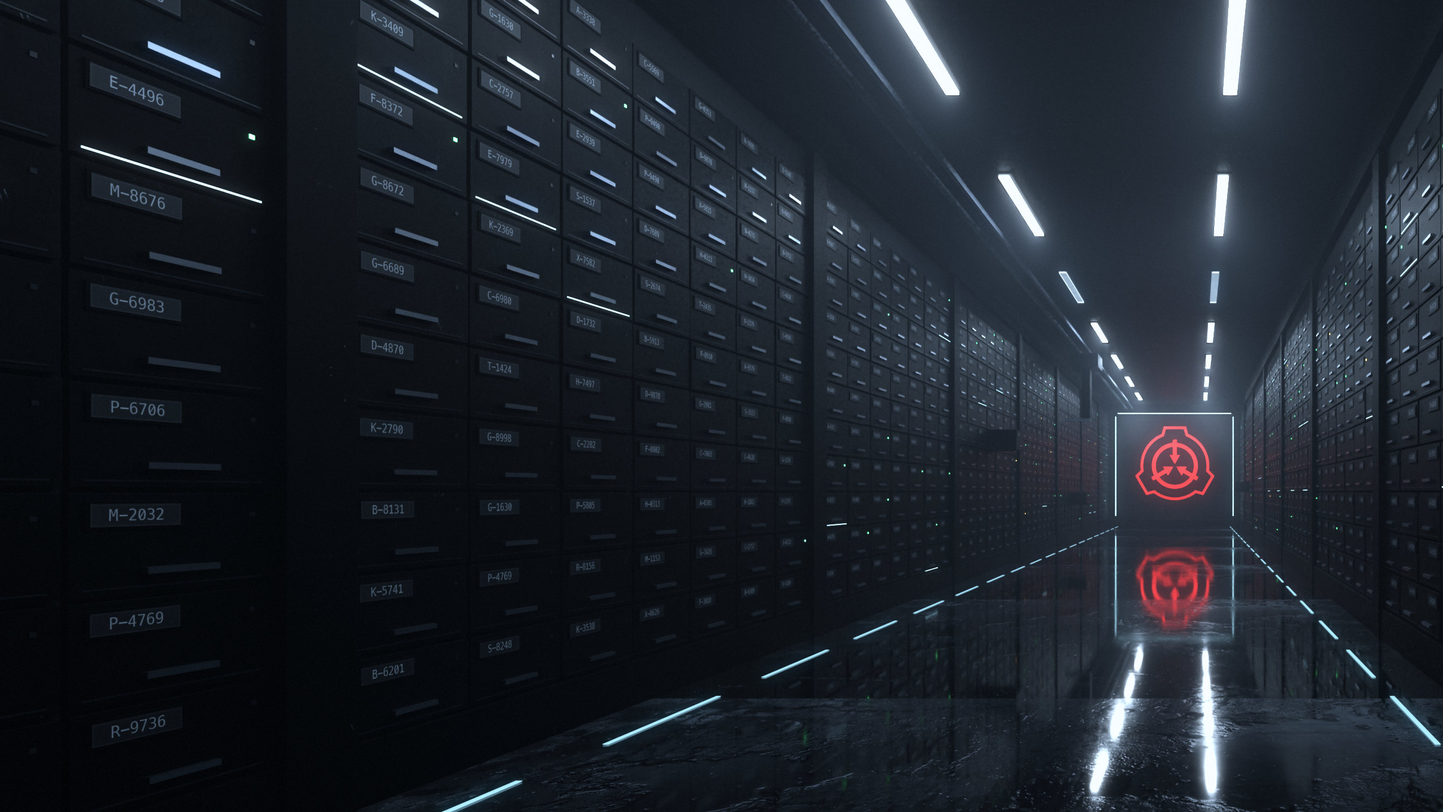
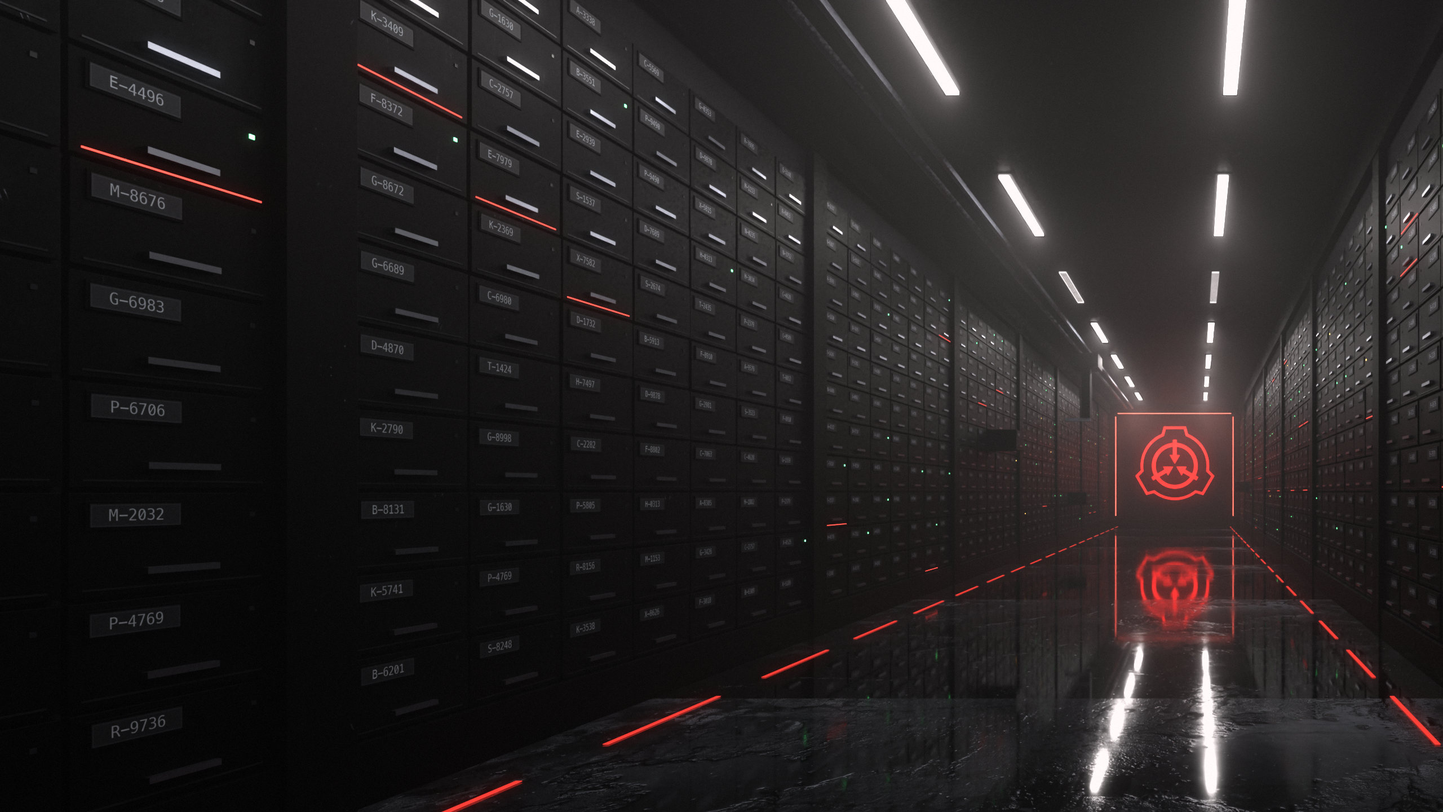
style: turn the entity profile terminal red
Replaces the ice blue accents and the vault's light strips with red, and
drops amber from the generating status so the screen stays in one colour.

diff --git a/styles/entityProfile.css b/styles/entityProfile.css
@@ -2,15 +2,15 @@
 @property --ep-ring { syntax: "<percentage>"; inherits: false; initial-value: 130%; }
 
 .stage-root .profile-view {
-  --ice: #9fd8ff;
-  --ice-soft: rgba(159, 216, 255, .16);
-  --ice-line: rgba(159, 216, 255, .34);
+  --ep-accent: #e04646;
+  --ep-accent-soft: rgba(224, 70, 70, .2);
+  --ep-accent-line: rgba(224, 70, 70, .46);
   --ep-side: clamp(340px, 31vw, 470px);
   --ep-plate-w: max(100vw, 177.78vh);
   --ep-console-x: calc(var(--ep-side) + clamp(14px, 2vw, 30px));
   /* 隔离门左边缘在底图 77.3% 处，底图贴右，终端停在门前 */
   --ep-door-x: calc(100vw - .227 * var(--ep-plate-w));
-  background: #030405;
+  background: #040303;
 }
 
 /* 底图按 cover 铺满，贴右下角，走廊尽头的标志留在终端右边 */
@@ -25,22 +25,21 @@
 .stage-root .profile-view.filing .ep-plate.lit { animation: none; opacity: 1; transition: opacity .75s cubic-bezier(.4, 0, .6, 1); }
 @keyframes ep-breathe { 0%, 100% { opacity: 0; } 50% { opacity: .13; } }
 @keyframes ep-wave { from { --ep-ring: 130%; } to { --ep-ring: -8%; } }
-.stage-root .ep-shade { position: absolute; inset: 0; pointer-events: none; background: linear-gradient(90deg, rgba(3,4,5,.72), rgba(3,4,5,.34) 46%, rgba(3,4,5,0) 72%), linear-gradient(0deg, rgba(3,4,5,.5), rgba(3,4,5,0) 26%); }
+.stage-root .ep-shade { position: absolute; inset: 0; pointer-events: none; background: linear-gradient(90deg, rgba(4,3,3,.72), rgba(4,3,3,.34) 46%, rgba(4,3,3,0) 72%), linear-gradient(0deg, rgba(4,3,3,.5), rgba(4,3,3,0) 26%); }
 
 /* ---------- 左：检索 ---------- */
-.stage-root .ep-side { position: absolute; z-index: 3; left: 0; top: 0; bottom: 0; width: var(--ep-side); display: flex; flex-direction: column; padding: clamp(14px, 2.6vh, 26px) 26px 18px clamp(20px, 2.6vw, 40px); background: rgba(5,7,9,.86); border-right: 1px solid var(--ice-soft); -webkit-backdrop-filter: blur(10px); backdrop-filter: blur(10px); opacity: 0; }
+.stage-root .ep-side { position: absolute; z-index: 3; left: 0; top: 0; bottom: 0; width: var(--ep-side); display: flex; flex-direction: column; padding: clamp(14px, 2.6vh, 26px) 26px 18px clamp(20px, 2.6vw, 40px); background: rgba(8,6,6,.86); border-right: 1px solid var(--ep-accent-soft); -webkit-backdrop-filter: blur(10px); backdrop-filter: blur(10px); opacity: 0; }
 .stage-root .profile-view.ready .ep-side { opacity: 1; transition: opacity .5s .1s; }
 .stage-root .ep-back { flex: none; align-self: flex-start; margin-left: -3px; }
 .stage-root .ep-title { flex: none; margin-top: clamp(10px, 2vh, 20px); }
 .stage-root .ep-title h1 { font-family: var(--report); font-weight: 400; font-size: clamp(24px, 2.3vw, 34px); line-height: 1.15; letter-spacing: .03em; margin-top: 8px; text-shadow: 0 2px 18px #000; }
 .stage-root .ep-sec { flex: none; margin-top: clamp(12px, 2.2vh, 20px); }
-.stage-root .ep-sec .nx-title { margin-bottom: 8px; border-bottom-color: var(--ice-soft); }
+.stage-root .ep-sec .nx-title { margin-bottom: 8px; border-bottom-color: var(--ep-accent-soft); }
 
-.stage-root .ep-led { flex: none; display: inline-block; width: 6px; height: 6px; background: var(--ice); box-shadow: 0 0 8px var(--ice-line); animation: ep-pulse 2.6s ease-in-out infinite; }
+.stage-root .ep-led { flex: none; display: inline-block; width: 6px; height: 6px; background: var(--ep-accent); box-shadow: 0 0 8px var(--ep-accent-line); animation: ep-pulse 2.6s ease-in-out infinite; }
 .stage-root .ep-state { display: flex; align-items: center; gap: 9px; font-size: 15px; line-height: 1.5; color: var(--body); }
 .stage-root .ep-state.ok .ep-led { background: #33ff00; box-shadow: 0 0 8px rgba(51,255,0,.5); animation: none; }
-.stage-root .ep-state.busy { color: var(--warn); }
-.stage-root .ep-state.busy .ep-led { background: var(--warn); box-shadow: 0 0 8px rgba(245,158,11,.6); animation-duration: .7s; }
+.stage-root .ep-state.busy .ep-led { animation-duration: .7s; }
 .stage-root .ep-state.err { color: var(--fate-hi); }
 .stage-root .ep-state.err .ep-led { background: var(--fate-hi); box-shadow: 0 0 8px rgba(224,70,70,.7); animation: none; }
 .stage-root .ep-hint { font-size: 12.5px; line-height: 1.6; color: var(--faint); margin: 2px 0 0 15px; }
@@ -50,83 +49,83 @@
 .stage-root .ep-list.busy .ep-card { opacity: .32; pointer-events: none; }
 
 /* 执行键：不用纸色板，是终端里的一条命令。两端露出一点条码，运行时光带从条码里穿过，节奏和走廊的波一致 */
-.stage-root .ep-exec { --gbtn-fg: #cfe6f5; --gbtn-bg: rgba(159,216,255,.04); --gbtn-line: var(--ice-line); --gbtn-fg-hover: #fff; --gbtn-bg-hover: rgba(159,216,255,.11); --gbtn-line-hover: var(--ice); --gbtn-tick: var(--ice); overflow: visible; font-weight: 500; }
-.stage-root .ep-exec.lead { --gbtn-fg: #f0f8fd; --gbtn-bg: rgba(159,216,255,.09); --gbtn-bg-hover: rgba(159,216,255,.17); --gbtn-line: rgba(159,216,255,.62); box-shadow: inset 0 0 22px rgba(159,216,255,.07); }
+.stage-root .ep-exec { --gbtn-fg: #ecdcdc; --gbtn-bg: rgba(224,70,70,.04); --gbtn-line: var(--ep-accent-line); --gbtn-fg-hover: #fff; --gbtn-bg-hover: rgba(224,70,70,.11); --gbtn-line-hover: var(--ep-accent); --gbtn-tick: var(--ep-accent); overflow: visible; font-weight: 500; }
+.stage-root .ep-exec.lead { --gbtn-fg: #fff; --gbtn-bg: rgba(224,70,70,.09); --gbtn-bg-hover: rgba(224,70,70,.17); --gbtn-line: rgba(224,70,70,.62); box-shadow: inset 0 0 22px rgba(224,70,70,.07); }
 .stage-root .ep-exec-track, .stage-root .ep-exec-track::after { position: absolute; inset: 0; pointer-events: none; background: repeating-linear-gradient(90deg, currentColor 0 1px, transparent 1px 5px), repeating-linear-gradient(90deg, currentColor 0 2px, transparent 2px 13px); }
-.stage-root .ep-exec-track { color: var(--ice); opacity: .22; -webkit-mask-image: linear-gradient(90deg, #000, transparent 24%, transparent 76%, #000); mask-image: linear-gradient(90deg, #000, transparent 24%, transparent 76%, #000); transition: opacity .2s; }
+.stage-root .ep-exec-track { color: var(--ep-accent); opacity: .22; -webkit-mask-image: linear-gradient(90deg, #000, transparent 24%, transparent 76%, #000); mask-image: linear-gradient(90deg, #000, transparent 24%, transparent 76%, #000); transition: opacity .2s; }
 .stage-root .ep-exec-track::after { content: ""; opacity: 0; }
 .stage-root .ep-exec:hover:not(:disabled) .ep-exec-track { opacity: .5; }
 .stage-root .ep-exec-label { position: relative; display: inline-flex; align-items: center; }
-.stage-root .ep-exec[aria-busy="true"] { --gbtn-line: var(--ice); --gbtn-bg: rgba(159,216,255,.05); box-shadow: inset 0 0 18px rgba(159,216,255,.1), 0 0 16px rgba(159,216,255,.14); }
+.stage-root .ep-exec[aria-busy="true"] { --gbtn-line: var(--ep-accent); --gbtn-bg: rgba(224,70,70,.05); box-shadow: inset 0 0 18px rgba(224,70,70,.1), 0 0 16px rgba(224,70,70,.14); }
 .stage-root .ep-exec[aria-busy="true"]::before, .stage-root .ep-exec[aria-busy="true"]::after { opacity: 1; transform: translate(-3px, -3px); }
 .stage-root .ep-exec[aria-busy="true"]::after { transform: translate(3px, 3px); }
-.stage-root .ep-exec[aria-busy="true"] .ep-exec-track { opacity: 1; color: rgba(159,216,255,.13); -webkit-mask-image: none; mask-image: none; }
-.stage-root .ep-exec[aria-busy="true"] .ep-exec-track::after { color: var(--ice); opacity: 1; -webkit-mask: linear-gradient(90deg, transparent, #000 42%, #000 58%, transparent) no-repeat 0 0 / 46% 100%; mask: linear-gradient(90deg, transparent, #000 42%, #000 58%, transparent) no-repeat 0 0 / 46% 100%; animation: ep-exec-run 1.7s cubic-bezier(.45, .05, .55, .95) infinite; }
+.stage-root .ep-exec[aria-busy="true"] .ep-exec-track { opacity: 1; color: rgba(224,70,70,.13); -webkit-mask-image: none; mask-image: none; }
+.stage-root .ep-exec[aria-busy="true"] .ep-exec-track::after { color: var(--ep-accent); opacity: 1; -webkit-mask: linear-gradient(90deg, transparent, #000 42%, #000 58%, transparent) no-repeat 0 0 / 46% 100%; mask: linear-gradient(90deg, transparent, #000 42%, #000 58%, transparent) no-repeat 0 0 / 46% 100%; animation: ep-exec-run 1.7s cubic-bezier(.45, .05, .55, .95) infinite; }
 @keyframes ep-exec-run { from { -webkit-mask-position: -90% 0; mask-position: -90% 0; } to { -webkit-mask-position: 190% 0; mask-position: 190% 0; } }
-.stage-root .ep-exec[aria-busy="true"] .ep-exec-label { z-index: 1; padding: 4px 12px 4px 14px; color: #fff; background: #060a0e; box-shadow: 0 0 10px 6px #060a0e; }
-.stage-root .ep-exec[aria-busy="true"] .ep-exec-label::after { content: ""; flex: none; width: 7px; height: 14px; margin-left: 7px; background: var(--ice); animation: ep-blink 1s steps(2) infinite; }
+.stage-root .ep-exec[aria-busy="true"] .ep-exec-label { z-index: 1; padding: 4px 12px 4px 14px; color: #fff; background: #0a0606; box-shadow: 0 0 10px 6px #0a0606; }
+.stage-root .ep-exec[aria-busy="true"] .ep-exec-label::after { content: ""; flex: none; width: 7px; height: 14px; margin-left: 7px; background: var(--ep-accent); animation: ep-blink 1s steps(2) infinite; }
 
 /* 检索日志 */
-.stage-root .ep-log { list-style: none; margin: 0 0 12px; padding: 9px 11px; font-family: var(--mono); font-size: 11.5px; line-height: 1.85; color: var(--dim); background: rgba(159,216,255,.04); border-left: 1px solid var(--ice-line); }
+.stage-root .ep-log { list-style: none; margin: 0 0 12px; padding: 9px 11px; font-family: var(--mono); font-size: 11.5px; line-height: 1.85; color: var(--dim); background: rgba(224,70,70,.04); border-left: 1px solid var(--ep-accent-line); }
 .stage-root .ep-log li { display: flex; justify-content: space-between; gap: 10px; }
-.stage-root .ep-log li span::before { content: "> "; color: var(--ice); }
-.stage-root .ep-log li i { flex: none; font-style: normal; color: var(--ice); }
+.stage-root .ep-log li span::before { content: "> "; color: var(--ep-accent); }
+.stage-root .ep-log li i { flex: none; font-style: normal; color: var(--ep-accent); }
 .stage-root .ep-log li.now { color: var(--body); }
-.stage-root .ep-log li.now span::after { content: ""; display: inline-block; width: 6px; height: 12px; margin-left: 5px; vertical-align: -2px; background: var(--ice); animation: ep-blink 1s steps(2) infinite; }
+.stage-root .ep-log li.now span::after { content: ""; display: inline-block; width: 6px; height: 12px; margin-left: 5px; vertical-align: -2px; background: var(--ep-accent); animation: ep-blink 1s steps(2) infinite; }
 @keyframes ep-blink { 50% { opacity: 0; } }
 
 /* 候选档案：一条条调出来的记录 */
-.stage-root .ep-card { position: relative; display: block; width: 100%; margin-bottom: 7px; padding: 8px 12px 11px; text-align: left; background: rgba(10,13,16,.72); border: 1px solid var(--line); transition: opacity .25s, border-color .2s, background .2s; animation: ep-in .45s var(--ease-out-expo) both; }
-.stage-root .ep-card:hover { border-color: var(--ice-line); background: rgba(159,216,255,.05); }
-.stage-root .ep-card:focus-visible { outline: 1px solid var(--ice); outline-offset: 1px; }
-.stage-root .ep-card.on { background: rgba(159,216,255,.09); border-color: var(--ice-line); box-shadow: inset 2px 0 0 var(--ice), -6px 0 18px -8px var(--ice); }
-.stage-root .ep-card::before, .stage-root .ep-card::after { content: ""; position: absolute; width: 7px; height: 7px; border: 0 solid var(--ice); opacity: 0; transition: opacity .2s; pointer-events: none; }
+.stage-root .ep-card { position: relative; display: block; width: 100%; margin-bottom: 7px; padding: 8px 12px 11px; text-align: left; background: rgba(14,10,10,.72); border: 1px solid var(--line); transition: opacity .25s, border-color .2s, background .2s; animation: ep-in .45s var(--ease-out-expo) both; }
+.stage-root .ep-card:hover { border-color: var(--ep-accent-line); background: rgba(224,70,70,.05); }
+.stage-root .ep-card:focus-visible { outline: 1px solid var(--ep-accent); outline-offset: 1px; }
+.stage-root .ep-card.on { background: rgba(224,70,70,.09); border-color: var(--ep-accent-line); box-shadow: inset 2px 0 0 var(--ep-accent), -6px 0 18px -8px var(--ep-accent); }
+.stage-root .ep-card::before, .stage-root .ep-card::after { content: ""; position: absolute; width: 7px; height: 7px; border: 0 solid var(--ep-accent); opacity: 0; transition: opacity .2s; pointer-events: none; }
 .stage-root .ep-card::before { right: -1px; top: -1px; border-width: 1px 1px 0 0; }
 .stage-root .ep-card::after { right: -1px; bottom: -1px; border-width: 0 1px 1px 0; }
 .stage-root .ep-card.on::before, .stage-root .ep-card.on::after { opacity: 1; }
 @keyframes ep-in { from { opacity: 0; transform: translateX(-8px); } }
 .stage-root .ep-card-head { display: flex; align-items: center; justify-content: space-between; margin-bottom: 4px; }
 .stage-root .ep-rec { font-family: var(--mono); font-size: 10px; letter-spacing: .18em; color: var(--faint); }
-.stage-root .ep-card.on .ep-rec { color: var(--ice); }
-.stage-root .ep-barcode rect { fill: rgba(159,216,255,.3); transition: fill .2s; }
-.stage-root .ep-card.on .ep-barcode rect { fill: var(--ice); }
+.stage-root .ep-card.on .ep-rec { color: var(--ep-accent); }
+.stage-root .ep-barcode rect { fill: rgba(224,70,70,.3); transition: fill .2s; }
+.stage-root .ep-card.on .ep-barcode rect { fill: var(--ep-accent); }
 .stage-root .ep-card b { display: block; font-size: 15.5px; font-weight: 600; line-height: 1.4; color: var(--body); }
 .stage-root .ep-card.on b { color: #fff; }
 .stage-root .ep-age { display: block; font-size: 12px; line-height: 1.5; color: var(--faint); }
 .stage-root .ep-abilities { display: flex; flex-wrap: wrap; gap: 4px; margin-top: 6px; }
-.stage-root .ep-abilities i { font-style: normal; font-size: 11.5px; line-height: 1.55; padding: 0 6px; color: #b8d4e6; background: rgba(159,216,255,.08); }
+.stage-root .ep-abilities i { font-style: normal; font-size: 11.5px; line-height: 1.55; padding: 0 6px; color: #dcd2d2; background: rgba(224,70,70,.08); }
 .stage-root .ep-origin { display: -webkit-box; -webkit-line-clamp: 3; -webkit-box-orient: vertical; overflow: hidden; font-size: 12.5px; line-height: 1.65; color: var(--dim); margin-top: 6px; }
 .stage-root .ep-error { padding: 9px 12px; margin-bottom: 7px; font-size: 12.5px; line-height: 1.6; color: var(--fate-hi); border-left: 2px solid var(--fate-hi); background: rgba(195,46,46,.07); }
 .stage-root .ep-custom { display: block; width: 100%; padding: 10px 12px; text-align: center; font-size: 13.5px; color: var(--dim); border: 1px dashed var(--line-2); transition: color .2s, border-color .2s, background .2s; }
-.stage-root .ep-custom:hover { color: #fff; border-color: var(--ice-line); }
-.stage-root .ep-custom.on { color: var(--ice); border-color: var(--ice-line); background: rgba(159,216,255,.06); }
+.stage-root .ep-custom:hover { color: #fff; border-color: var(--ep-accent-line); }
+.stage-root .ep-custom.on { color: var(--ep-accent); border-color: var(--ep-accent-line); background: rgba(224,70,70,.06); }
 
 /* ---------- 右：记录终端，毛玻璃盖在走廊前 ---------- */
-.stage-root .ep-console { position: absolute; z-index: 2; left: var(--ep-console-x); top: clamp(14px, 3vh, 30px); bottom: clamp(14px, 3vh, 30px); width: clamp(460px, calc(var(--ep-door-x) - var(--ep-console-x) - 28px), 760px); display: flex; flex-direction: column; min-width: 0; background: linear-gradient(180deg, rgba(9,13,17,.76), rgba(5,8,11,.86)); border: 1px solid var(--ice-soft); box-shadow: 0 30px 80px rgba(0,0,0,.6), inset 0 1px 0 rgba(255,255,255,.03); -webkit-backdrop-filter: blur(14px) saturate(.85); backdrop-filter: blur(14px) saturate(.85); opacity: 0; overflow: hidden; }
+.stage-root .ep-console { position: absolute; z-index: 2; left: var(--ep-console-x); top: clamp(14px, 3vh, 30px); bottom: clamp(14px, 3vh, 30px); width: clamp(460px, calc(var(--ep-door-x) - var(--ep-console-x) - 28px), 760px); display: flex; flex-direction: column; min-width: 0; background: linear-gradient(180deg, rgba(13,9,9,.76), rgba(8,6,6,.86)); border: 1px solid var(--ep-accent-soft); box-shadow: 0 30px 80px rgba(0,0,0,.6), inset 0 1px 0 rgba(255,255,255,.03); -webkit-backdrop-filter: blur(14px) saturate(.85); backdrop-filter: blur(14px) saturate(.85); opacity: 0; overflow: hidden; }
 .stage-root .profile-view.ready .ep-console { opacity: 1; transition: opacity .6s .25s; }
-.stage-root .ep-corner { position: absolute; z-index: 2; width: 13px; height: 13px; border: 0 solid var(--ice); opacity: .75; pointer-events: none; }
+.stage-root .ep-corner { position: absolute; z-index: 2; width: 13px; height: 13px; border: 0 solid var(--ep-accent); opacity: .75; pointer-events: none; }
 .stage-root .ep-corner.tl { left: -1px; top: -1px; border-width: 1px 0 0 1px; }
 .stage-root .ep-corner.tr { right: -1px; top: -1px; border-width: 1px 1px 0 0; }
 .stage-root .ep-corner.bl { left: -1px; bottom: -1px; border-width: 0 0 1px 1px; }
 .stage-root .ep-corner.br { right: -1px; bottom: -1px; border-width: 0 1px 1px 0; }
 /* 一条很细的扫描线从上往下走，检索和归档时走得更快 */
-.stage-root .ep-beam { position: absolute; z-index: 1; left: 0; right: 0; top: 0; height: 110px; pointer-events: none; background: linear-gradient(180deg, transparent, rgba(159,216,255,.035) 88%, rgba(159,216,255,.2) 100%); transform: translateY(-110px); animation: ep-beam 8s linear infinite; }
+.stage-root .ep-beam { position: absolute; z-index: 1; left: 0; right: 0; top: 0; height: 110px; pointer-events: none; background: linear-gradient(180deg, transparent, rgba(224,70,70,.035) 88%, rgba(224,70,70,.2) 100%); transform: translateY(-110px); animation: ep-beam 8s linear infinite; }
 .stage-root .profile-view.searching .ep-beam, .stage-root .profile-view.filing .ep-beam { animation-duration: 1.7s; }
 @keyframes ep-beam { to { transform: translateY(calc(100vh + 110px)); } }
 
-.stage-root .ep-rec-head { flex: none; position: relative; display: flex; align-items: flex-end; justify-content: space-between; gap: 18px; padding: clamp(14px, 2.4vh, 22px) 24px 13px; border-bottom: 1px solid var(--ice-soft); }
+.stage-root .ep-rec-head { flex: none; position: relative; display: flex; align-items: flex-end; justify-content: space-between; gap: 18px; padding: clamp(14px, 2.4vh, 22px) 24px 13px; border-bottom: 1px solid var(--ep-accent-soft); }
 .stage-root .ep-rec-title { min-width: 0; }
-.stage-root .ep-rec-title .meta-line { font-size: 10px; letter-spacing: .2em; color: var(--ice); white-space: nowrap; overflow: hidden; text-overflow: ellipsis; }
+.stage-root .ep-rec-title .meta-line { font-size: 10px; letter-spacing: .2em; color: var(--ep-accent); white-space: nowrap; overflow: hidden; text-overflow: ellipsis; }
 .stage-root .ep-rec-title h2 { font-size: 21px; font-weight: 500; line-height: 1.3; letter-spacing: .06em; margin-top: 5px; }
 .stage-root .ep-meter { flex: none; display: grid; grid-template-columns: auto auto; column-gap: 9px; row-gap: 5px; align-items: center; justify-items: end; }
 .stage-root .ep-meter small { grid-column: 1 / -1; font-size: 11.5px; letter-spacing: .1em; color: var(--dim); }
 .stage-root .ep-cells { display: flex; gap: 3px; }
-.stage-root .ep-cells i { width: 20px; height: 6px; background: rgba(159,216,255,.1); transition: background .3s, box-shadow .3s; }
-.stage-root .ep-cells i.on { background: var(--ice); box-shadow: 0 0 7px var(--ice-line); }
+.stage-root .ep-cells i { width: 20px; height: 6px; background: rgba(224,70,70,.1); transition: background .3s, box-shadow .3s; }
+.stage-root .ep-cells i.on { background: var(--ep-accent); box-shadow: 0 0 7px var(--ep-accent-line); }
 .stage-root .ep-meter.full .ep-cells i.on { background: #33ff00; box-shadow: 0 0 7px rgba(51,255,0,.45); }
 .stage-root .ep-meter b { font-family: var(--mono); font-weight: 400; font-size: 12px; color: var(--body); }
 /* 归档时的写入进度 */
-.stage-root .ep-write { flex: none; display: block; height: 2px; width: 0; margin-top: -2px; position: relative; background: var(--ice); box-shadow: 0 0 10px var(--ice); opacity: 0; }
+.stage-root .ep-write { flex: none; display: block; height: 2px; width: 0; margin-top: -2px; position: relative; background: var(--ep-accent); box-shadow: 0 0 10px var(--ep-accent); opacity: 0; }
 .stage-root .profile-view.filing .ep-write { opacity: 1; width: 100%; transition: width .78s cubic-bezier(.5, 0, .3, 1); }
 
 .stage-root .ep-body { position: relative; flex: 1; min-height: 0; display: flex; flex-direction: column; overflow-y: auto; padding: 4px 24px 14px; scrollbar-width: thin; scrollbar-color: var(--line-2) transparent; }
@@ -136,26 +135,26 @@
 
 /* 表单是一张记录表：编号、字段名、一条线，不用输入框 */
 .stage-root .ep-row { position: relative; display: grid; grid-template-columns: 26px minmax(0, 1fr); column-gap: 6px; padding: 11px 0 5px; border-bottom: 1px solid var(--line); transition: background .2s, border-color .2s; }
-.stage-root .ep-row:focus-within { border-bottom-color: var(--ice); background: linear-gradient(90deg, rgba(159,216,255,.07), transparent 65%); }
+.stage-root .ep-row:focus-within { border-bottom-color: var(--ep-accent); background: linear-gradient(90deg, rgba(224,70,70,.07), transparent 65%); }
 .stage-root .ep-row.grow { flex: 1; min-height: 150px; }
 .stage-root .ep-row.grow .ep-cell, .stage-root .ep-row.grow .fld { display: flex; flex-direction: column; min-height: 0; height: 100%; }
-.stage-root .ep-form .ep-row.grow .fld textarea { flex: 1; height: auto !important; line-height: 26px; background: repeating-linear-gradient(180deg, transparent 0 25px, rgba(159,216,255,.045) 25px 26px) local !important; }
+.stage-root .ep-form .ep-row.grow .fld textarea { flex: 1; height: auto !important; line-height: 26px; background: repeating-linear-gradient(180deg, transparent 0 25px, rgba(224,70,70,.045) 25px 26px) local !important; }
 .stage-root .ep-idx { display: flex; align-items: center; gap: 0; height: 15px; font-family: var(--mono); font-size: 10px; letter-spacing: .04em; color: var(--faint); transition: color .2s; }
-.stage-root .ep-row.filled .ep-idx { color: var(--ice); }
+.stage-root .ep-row.filled .ep-idx { color: var(--ep-accent); }
 .stage-root .ep-cell .fld { margin: 0; }
 .stage-root .ep-cell .fld > label { font-size: 10.5px; line-height: 15px; letter-spacing: .14em; margin-bottom: 3px; color: var(--dim); }
-.stage-root .ep-form .fld input[type=text], .stage-root .ep-form .fld textarea, .stage-root .ep-form .chips { background: transparent !important; border: 0; padding: 2px 0 4px; color: #edf4f9; caret-color: var(--ice); font-size: 15.5px; line-height: 1.6; }
+.stage-root .ep-form .fld input[type=text], .stage-root .ep-form .fld textarea, .stage-root .ep-form .chips { background: transparent !important; border: 0; padding: 2px 0 4px; color: #f4efef; caret-color: var(--ep-accent); font-size: 15.5px; line-height: 1.6; }
 .stage-root .ep-form .fld textarea { display: block; resize: none; font-size: 14.5px; line-height: 1.8; min-height: 0; }
 .stage-root .ep-form .chips { min-height: 0; gap: 5px; }
-.stage-root .ep-form .chip { font-size: 13px; padding: 1px 5px 1px 8px; color: #d3e8f6; background: rgba(159,216,255,.09); box-shadow: inset 0 0 0 1px rgba(159,216,255,.2); }
-.stage-root .ep-form .chips input { font-size: 14px; padding: 1px 0 !important; caret-color: var(--ice); }
+.stage-root .ep-form .chip { font-size: 13px; padding: 1px 5px 1px 8px; color: #f0e2e2; background: rgba(224,70,70,.09); box-shadow: inset 0 0 0 1px rgba(224,70,70,.2); }
+.stage-root .ep-form .chips input { font-size: 14px; padding: 1px 0 !important; caret-color: var(--ep-accent); }
 
 .stage-root .ep-empty { position: absolute; left: 0; right: 0; top: 34%; text-align: center; pointer-events: none; }
-.stage-root .ep-empty b { display: block; font-family: var(--mono); font-weight: 400; font-size: clamp(15px, 1.5vw, 21px); letter-spacing: .34em; text-indent: .34em; color: var(--ice); text-shadow: 0 0 18px var(--ice-line); animation: ep-pulse 3s ease-in-out infinite; }
+.stage-root .ep-empty b { display: block; font-family: var(--mono); font-weight: 400; font-size: clamp(15px, 1.5vw, 21px); letter-spacing: .34em; text-indent: .34em; color: var(--ep-accent); text-shadow: 0 0 18px var(--ep-accent-line); animation: ep-pulse 3s ease-in-out infinite; }
 .stage-root .ep-empty span { display: block; font-size: 13px; line-height: 1.7; color: var(--dim); margin-top: 8px; }
 
-.stage-root .ep-foot { flex: none; position: relative; display: flex; align-items: center; justify-content: space-between; gap: 12px; padding: 12px 24px clamp(12px, 2vh, 18px); border-top: 1px solid var(--ice-soft); }
-.stage-root .ep-mode { display: inline-flex; align-items: center; gap: 8px; font-family: var(--mono); font-size: 10.5px; letter-spacing: .14em; color: var(--ice); white-space: nowrap; }
+.stage-root .ep-foot { flex: none; position: relative; display: flex; align-items: center; justify-content: space-between; gap: 12px; padding: 12px 24px clamp(12px, 2vh, 18px); border-top: 1px solid var(--ep-accent-soft); }
+.stage-root .ep-mode { display: inline-flex; align-items: center; gap: 8px; font-family: var(--mono); font-size: 10.5px; letter-spacing: .14em; color: var(--ep-accent); white-space: nowrap; }
 .stage-root .ep-foot .weave-btn:disabled { opacity: .42; cursor: not-allowed; box-shadow: none; }
 
 /* 归档印章，沿用简报的做法 */
@@ -163,20 +162,20 @@
 .stage-root .ep-stamp.tb-stamp b { font-size: 24px; }
 .stage-root .ep-stamp.tb-stamp span { font-size: 11px; letter-spacing: .24em; text-indent: .24em; margin-top: 2px; }
 
-.stage-root .ep-tabs { display: none; flex: none; position: relative; z-index: 4; border-bottom: 1px solid var(--ice-soft); background: rgba(5,7,9,.94); }
+.stage-root .ep-tabs { display: none; flex: none; position: relative; z-index: 4; border-bottom: 1px solid var(--ep-accent-soft); background: rgba(8,6,6,.94); }
 .stage-root .ep-tabs button { flex: 1; position: relative; height: 44px; font-size: 13.5px; letter-spacing: .08em; color: var(--dim); }
 .stage-root .ep-tabs button:disabled { opacity: .45; }
 .stage-root .ep-tabs button.on { color: #fff; }
-.stage-root .ep-tabs button.on::after { content: ""; position: absolute; left: 22%; right: 22%; bottom: -1px; height: 2px; background: var(--ice); }
+.stage-root .ep-tabs button.on::after { content: ""; position: absolute; left: 22%; right: 22%; bottom: -1px; height: 2px; background: var(--ep-accent); }
 
 /* 窄屏和接近正方形的窗口一次一个面板，选中候选后切到档案 */
 @media (max-width: 1000px), (max-aspect-ratio: 5/4) {
   .stage-root .profile-view { display: flex; flex-direction: column; }
-  .stage-root .ep-shade { background: rgba(3,4,5,.62); }
+  .stage-root .ep-shade { background: rgba(4,3,3,.62); }
   .stage-root .ep-tabs { display: flex; padding-right: 96px; }
   .stage-root .ep-side, .stage-root .ep-console { position: relative; z-index: 3; left: auto; right: auto; top: auto; bottom: auto; flex: 1; min-height: 0; width: auto; border: 0; box-shadow: none; display: none; }
   .stage-root .ep-side.m-on, .stage-root .ep-console.m-on { display: flex; flex-direction: column; }
-  .stage-root .ep-side { padding: 12px 16px 14px; background: rgba(5,7,9,.72); }
+  .stage-root .ep-side { padding: 12px 16px 14px; background: rgba(8,6,6,.72); }
   .stage-root .ep-corner { display: none; }
   .stage-root .ep-rec-head { padding: 14px 16px 12px; flex-wrap: wrap; }
   .stage-root .ep-body { padding: 4px 16px 14px; }
